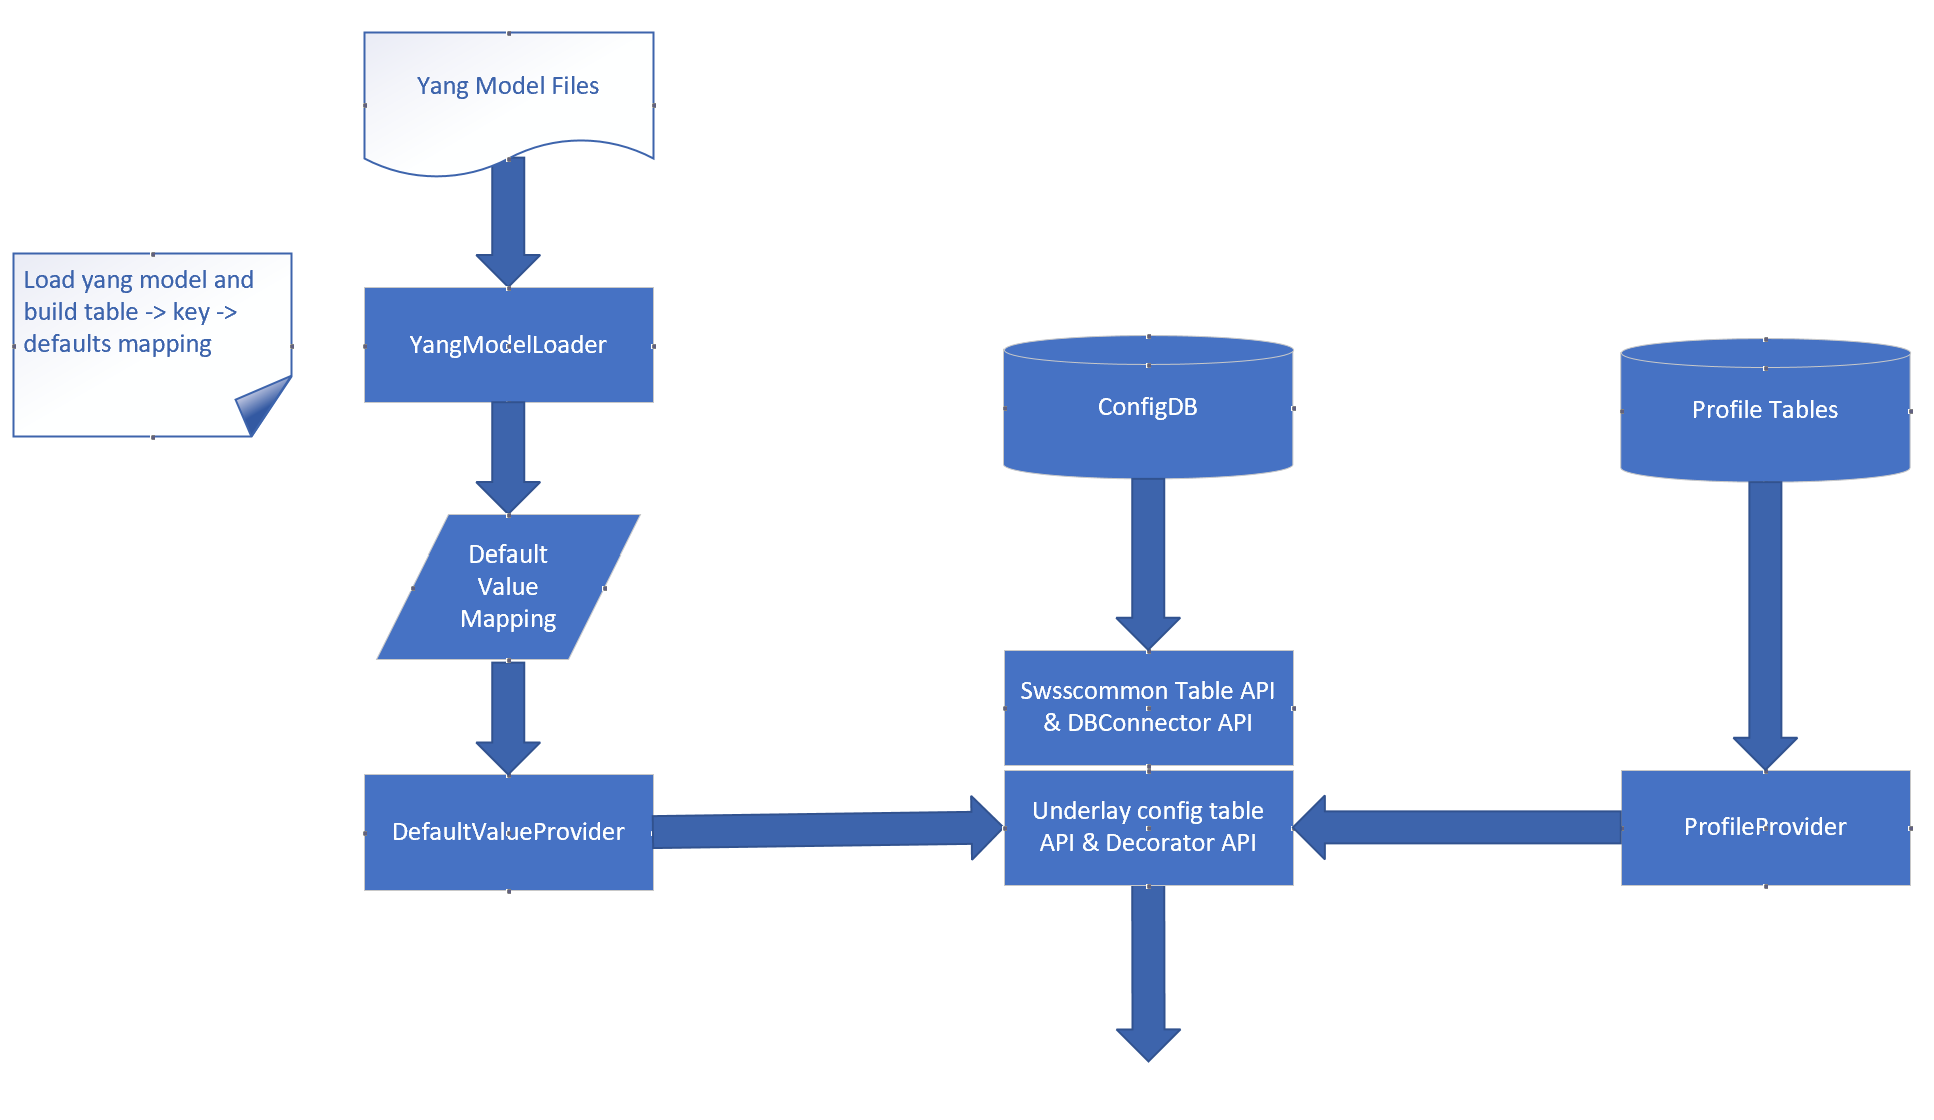
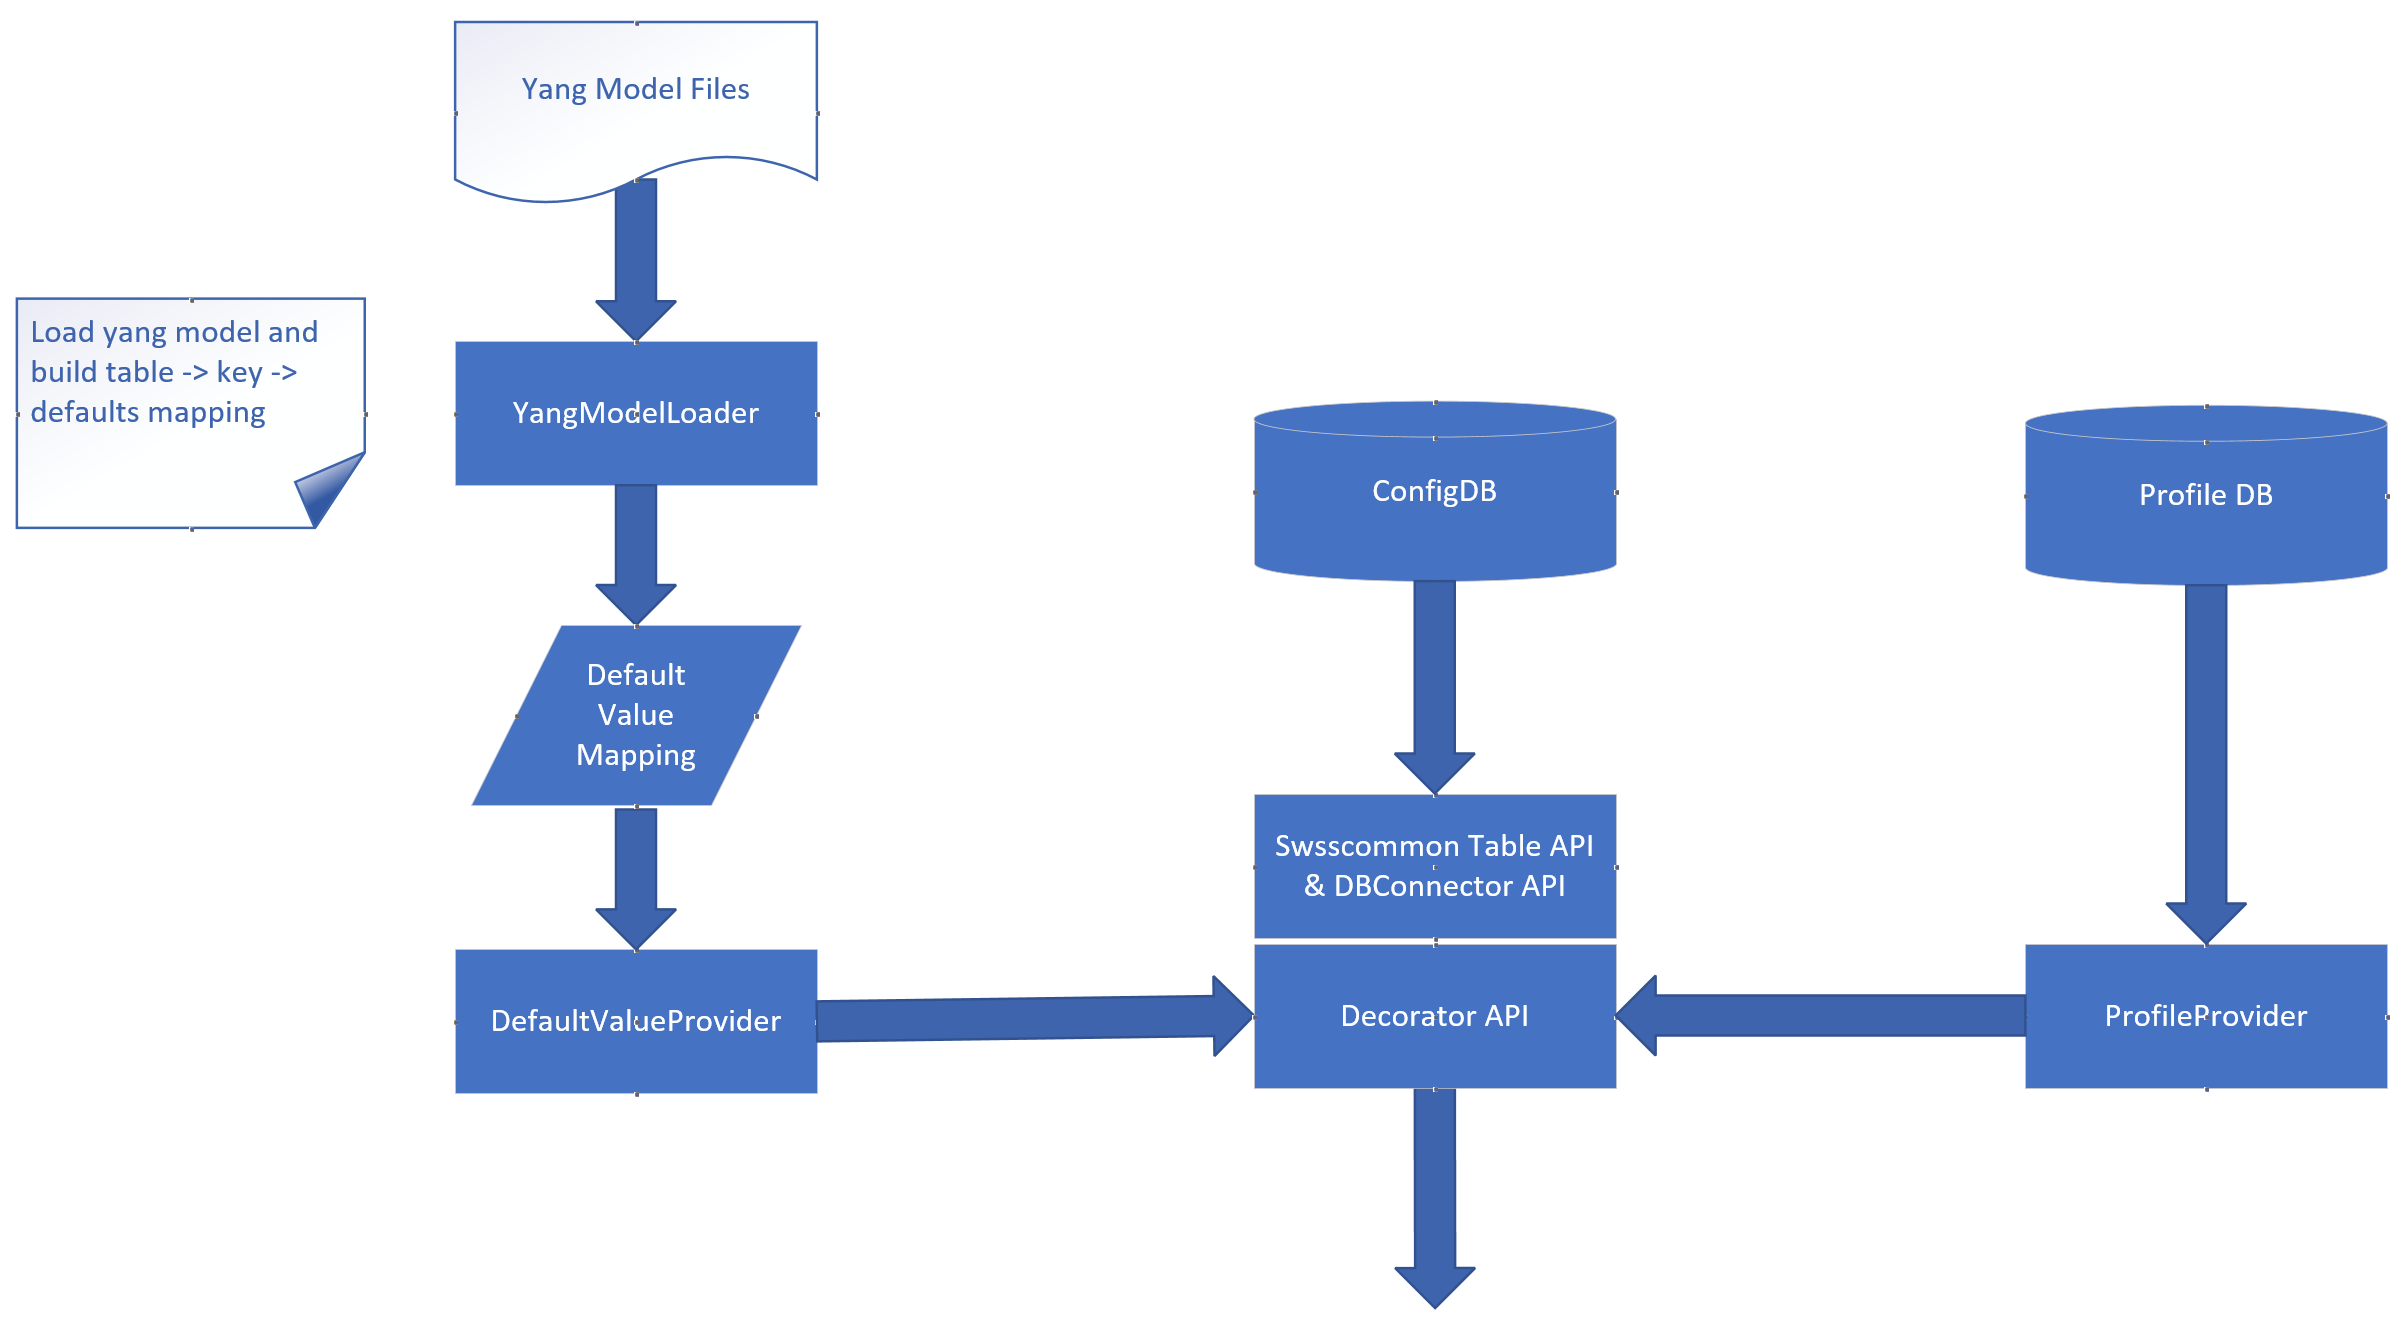
Update design document

diff --git a/doc/mgmt/SONiC_ConfigDB_support_Yang_default_values_and_profiles.md b/doc/mgmt/SONiC_ConfigDB_support_Yang_default_values_and_profiles.md
@@ -1,15 +1,15 @@
-# Underlay ConfigDB with Yang Default Values and SONiC Image Default Profiles
+# SONiC ConfigDB support Yang default values and profiles
 
 ## Table of Contents
 
-- [Underlay ConfigDB with Yang Default Values and SONiC Image Default Profiles](#underlay-configdb-with-yang-default-values-and-sonic-image-default-profiles)
+- [SONiC ConfigDB support Yang default values and profiles](#sonic-configdb-support-yang-default-values-and-profiles)
   - [Table of Contents](#table-of-contents)
 - [About this Manual](#about-this-manual)
   - [Terminologies](#terminologies)
   - [Problem Statement](#problem-statement)
 - [1 Functional Requirement](#1-functional-requirement)
-  - [1.1 swss-common return default value from Yang model underlay](#11-swss-common-return-default-value-from-yang-model-underlay)
-  - [1.2 swss-common return profile from profile underlay](#12-swss-common-return-profile-from-profile-underlay)
+  - [1.1 swss-common return default value from Yang model](#11-swss-common-return-default-value-from-yang-model)
+  - [1.2 swss-common return profile from profile DB](#12-swss-common-return-profile-from-profile-db)
 - [2 Design](#2-design)
     - [Current design:](#current-design)
   - [2.1 Considerations](#21-considerations)
@@ -22,10 +22,10 @@
   - [2.5 Database Schema](#25-database-schema)
   - [2.6 Code example](#26-code-example)
 - [3 Reboot](#3-reboot)
-  - [3.1 Warn-reboot/fast-reboot](#31-warn-rebootfast-reboot)
   - [3.1 Cold-reboot](#31-cold-reboot)
-  - [3.2 Schema upgrade and DB migration](#32-schema-upgrade-and-db-migration)
-  - [3.3 OS upgrade](#33-os-upgrade)
+  - [3.2 Warm-reboot](#31-warm-reboot)
+  - [3.3 Fast-reboot](#31-fast-reboot)
+  - [3.4 Schema upgrade and DB migration](#34-schema-upgrade-and-db-migration)
 - [4 Error handling](#4-error-handling)
 - [5 Serviceability and Debug](#5-serviceability-and-debug)
 - [6 Unit Test](#6-unit-test)
@@ -39,9 +39,8 @@
 
 This document provides a detailed description on the new features for:
 
-- Underlay Config DB.
-- Yang model default value underlay.
-- Profile underlay.
+- Yang model default value.
+- Profile DB.
 - swss-common API change.
 
 ## Terminologies
@@ -118,16 +117,19 @@ This document provides a detailed description on the new features for:
     - show running: only return user config.
     - show running all: return user config, default value from yang model, and config from j2 template.
   - Currently SONiC only support 'show running'
+- DB migrator has complex logic and hardcoded config data:
+  - DB migrator will be run in post startup action.
+  - DB migrator complex logic and hardcoded config for migrate from every historical version to latest version. This will keep increase and difficult to maintance.
 
 # 1 Functional Requirement
 
-## 1.1 swss-common return default value from Yang model underlay
+## 1.1 swss-common return default value from Yang model
 
 - Return default value is optional.
   - Application can read config without default value, also can read config with default value.
 - Backward compatibility with existing code and applications.
 
-## 1.2 swss-common return profile from profile underlay
+## 1.2 swss-common return profile from profile DB
 
 - Buffer profile stored in profile tables.
 
@@ -146,11 +148,11 @@ This document provides a detailed description on the new features for:
 - Backward compatibility with existing code and applications.
   
   - For backward compatibility when initialize buffer config from minigraph, config will be write to both config tables and profile tables.
-  - After all code migrate to use profile underlay, profile will only write to profile tables.
+  - After all code migrate to use profile DB, profile will only write to profile tables.
   - Profile support delete/revert operation:
     - In some user scenario, user need delete a profile, and also may add config back later.
-    - For delete operation, data in profile table will not be delete, profile underlay use PROFILE_DELETE table to handle delete/revert:
-      - When delete a profile item, profile underlay will add the item key to PROFILE_DELETE table.
+    - For delete operation, data in profile table will not be delete, profile use PROFILE_DELETE table to handle delete/revert:
+      - When delete a profile item, profile provider will add the item key to PROFILE_DELETE table.
       - When read profile, any key in PROFILE_DELETE will not exist in result.
       - When user set deleted item back, the item key will be remove from PROFILE_DELETE table.
       - For example:
@@ -177,7 +179,7 @@ This document provides a detailed description on the new features for:
 
 # 2 Design
 
-- Underlay config DB design diagram:
+- Config DB design diagram:
 
 <img src="./images/swss-common-layer.png"  />
 
@@ -237,11 +239,11 @@ This document provides a detailed description on the new features for:
   - Read profile from profile DB.
   - Merge profile to API result.
 
-- YangDefaultUnderlay python class
+- YangDefaultDecorator python class
 
-- UnderlayTable c++ class
+- DecoratorTable c++ class
 
-- UnderlaySubscriberStateTable c++ class
+- DecoratorSubscriberStateTable c++ class
 
 ## 2.4 Other code change
 
@@ -256,7 +258,9 @@ This document provides a detailed description on the new features for:
   - BUFFER_PROFILE
 
 - PROFILE_DELETE Table:
-  
+  - For usage of this table, please refer to [Backward compatibility with existing code and applications.](#backward-compatibility-with-existing-code-and-applications)
+  - This table is a config DB table, it will presist cross reboot. When re-render config, this table will be flushed as well as other config DB tables.
+  - Yang model: [link](./sonic-profile-delete.yang "profile delete table")
   ```
   ; Key
   itemkey              = 1*256VCHAR          ; Deleted profile item key.
@@ -264,51 +268,55 @@ This document provides a detailed description on the new features for:
 
 ## 2.6 Code example
 
-- Connector underlay:
+- Connector Decorator:
   
   ```
-   from swsscommon.swsscommon import SonicV2Connector, ConfigDBConnector, YangDefaultUnderlay
+   from swsscommon.swsscommon import SonicV2Connector, ConfigDBConnector, YangDefaultDecorator
   
    conn = ConfigDBConnector()
-   underlay = YangDefaultUnderlay(conn)
-   underlay.connect()
-   underlay.get_table("VLAN_INTERFACE")
-   underlay.get_entry("VLAN_INTERFACE", "Vlan1000")
-   underlay.get_config()
+   decorator = YangDefaultDecorator(conn)
+   decorator.connect()
+   decorator.get_table("VLAN_INTERFACE")
+   decorator.get_entry("VLAN_INTERFACE", "Vlan1000")
+   decorator.get_config()
   ```
 
-- UnderlayTable:
+- DecoratorTable:
   
   ```
-   from swsscommon.swsscommon import DBConnector, Table, UnderlayTable 
+   from swsscommon.swsscommon import DBConnector, Table, DecoratorTable 
   
    db = DBConnector("CONFIG_DB", 0)
    # Still can use Table to read user config:
    # table = Table(db, 'VLAN_INTERFACE')
-   # Use UnderlayTable to read default value, profile and use config:
-   table = UnderlayTable(db, 'VLAN_INTERFACE')
+   # Use DecoratorTable to read default value, profile and use config:
+   table = DecoratorTable(db, 'VLAN_INTERFACE')
    table.get("Vlan1000")
   ```
 
 # 3 Reboot
 
-- Profile DB follow same life cycle with config DB.
-
-## 3.1 Warn-reboot/fast-reboot
-
-- Profile DB will save and persist during warn-reboot and fast-reboot.
+- 
 
 ## 3.1 Cold-reboot
 
-- Profile DB will follow same process with config DB to handle cold-reboot.
+- Code-reboot will reload minigraph, profile DB will re-render in reload minigraph.
 
-## 3.2 Schema upgrade and DB migration
+## 3.2 Warm-reboot
 
-- Profile DB will follow same process with config DB to handle schema upgrade and DB migration.
+- Profile DB will presist to file before warm-reboot, will load from saved file after warm-reboot.
+- DB migrator will run after warm reboot, will handle OS upgrade in DB migrator.
 
-## 3.3 OS upgrade
+## 3.3 Fast-reboot
 
-- static_db will re-initialize with J2 templates after OS upgrade.
+- Fast-reboot will reload minigraph, profile DB will re-render in reload minigraph.
+
+## 3.4 Schema upgrade and DB migration
+
+- DB migrator will re-render profile DB to handle schema change.
+  - Profile DB will rendered by cfg-gen command.
+- DB migrator code will implify by deprate hardcoded config and complex upgrade logic for profile config.
+- Some profile configuration change are disruptive, for example buffer config change,those change need fast-reboot to make sure change refelected on ASIC.
 
 # 4 Error handling
 
@@ -340,6 +348,16 @@ This document provides a detailed description on the new features for:
   - for warm-reboot/fast-reboot, save and persist profile DB.
 
 ## 7.2 Phase 2
+
+- Update sonic cli.
+  
+  - Add 'show all config' command, which will show following config:
+    - User config from config DB.
+    - Yang model default value.
+    - Profile.
+  - Add 'show user config' command, which will only show user config.
+  - For backward compatibility, 'show config' will mapping to 'show all config'.
+  - This will improve user expirence for debug config related issue.
 
 - Find out all projects need update by code scan:
   
